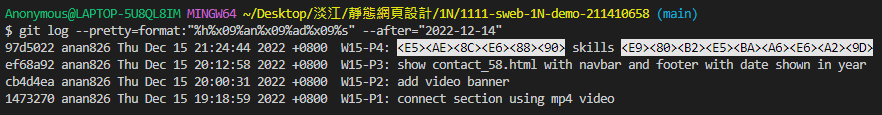
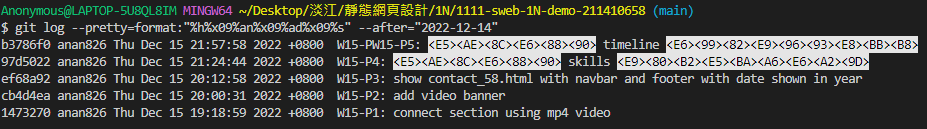
W15-logs : Week 15 all logs

diff --git a/demo/md/w15_58/w15_58.md b/demo/md/w15_58/w15_58.md
@@ -29,5 +29,10 @@
 ![](w15-logs.png)
 
 ```
-$ git log --pretty=format:"%h%x09%an%x09%ad%x09%s" --after="2022-12-7"
+$ git log --pretty=format:"%h%x09%an%x09%ad%x09%s" --after="2022-12-14"
+b3786f0 anan826 Thu Dec 15 21:57:58 2022 +0800  W15-PW15-P5: <E5><AE><8C><E6><88><90> timeline <E6><99><82><E9><96><93><E8><BB><B8>
+97d5022 anan826 Thu Dec 15 21:24:44 2022 +0800  W15-P4: <E5><AE><8C><E6><88><90> skills <E9><80><B2><E5><BA><A6><E6><A2><9D>
+ef68a92 anan826 Thu Dec 15 20:12:58 2022 +0800  W15-P3: show contact_58.html with navbar and footer with date shown in year
+cb4d4ea anan826 Thu Dec 15 20:00:31 2022 +0800  W15-P2: add video banner
+1473270 anan826 Thu Dec 15 19:18:59 2022 +0800  W15-P1: connect section using mp4 video
 ```
